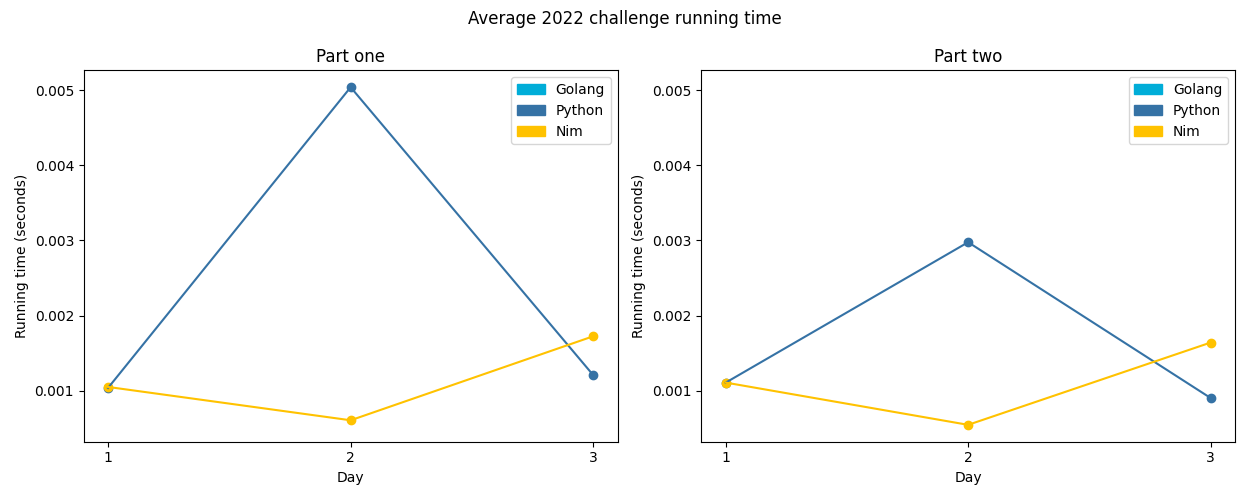
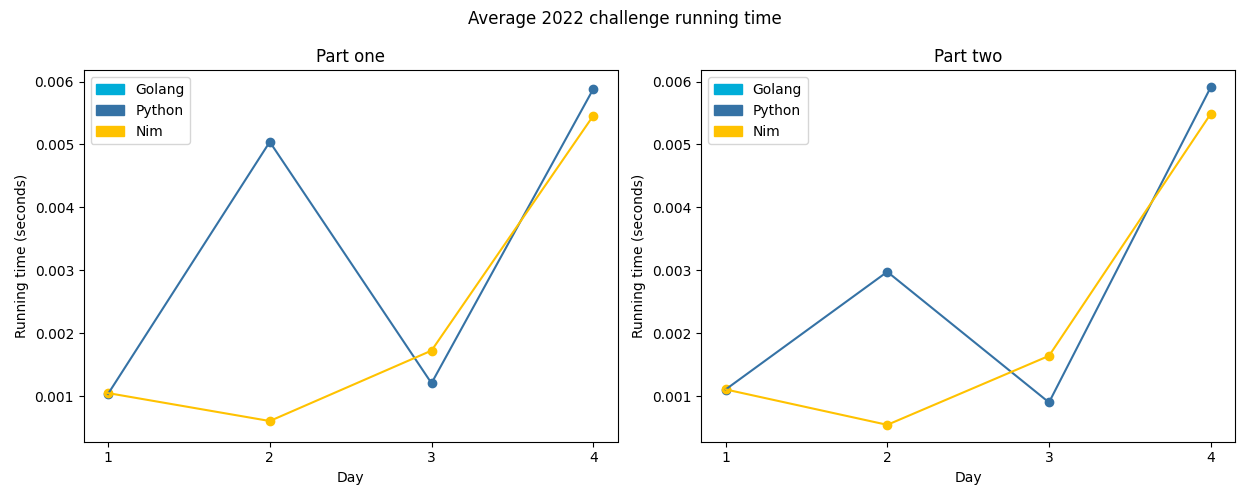
2022-04 py,nim

diff --git a/challenges/2022/04-campCleanup/py/__init__.py b/challenges/2022/04-campCleanup/py/__init__.py
@@ -1,0 +1,48 @@
+from typing import *
+from aocpy import BaseChallenge
+import re
+
+
+ElfTaskRange = Tuple[int, int]
+ElfPair = Tuple[ElfTaskRange, ElfTaskRange]
+
+parse_re = re.compile(r"(\d+)-(\d+),(\d+)-(\d+)")
+
+
+def parse(instr: str) -> List[ElfPair]:
+    x = instr.strip().splitlines()
+    for i, ep in enumerate(x):
+        a, b, c, d = map(int, parse_re.match(ep).groups())
+        x[i] = ((a, b), (c, d))
+    return x
+
+
+def make_set(tr: ElfTaskRange) -> Set[int]:
+    return set(range(tr[0], tr[1] + 1))
+
+
+def count(inp: List[ElfPair], pred: Callable[[Set[int], Set[int], int], bool]) -> int:
+    # pred(first set, second set, length of intersection)
+
+    n = 0
+    for pair in inp:
+        a = make_set(pair[0])
+        b = make_set(pair[1])
+        intersection = a.intersection(b)
+
+        if pred(a, b, len(intersection)):
+            n += 1
+
+    return n
+
+
+class Challenge(BaseChallenge):
+    @staticmethod
+    def one(instr: str) -> int:
+        inp = parse(instr)
+        return count(inp, lambda a, b, i: i == len(a) or i == len(b))
+
+    @staticmethod
+    def two(instr: str) -> int:
+        inp = parse(instr)
+        return count(inp, lambda _, __, i: i != 0)

diff --git a/challenges/2022/README.md b/challenges/2022/README.md
@@ -13,6 +13,7 @@ Solutions to the [2022 Advent of Code](https://adventofcode.com/2022).
 | 01 - Calorie Counting               | ★ ★                | [Python](01-calorieCounting/py), [Nim](01-calorieCounting/nim), [Java](01-calorieCounting/java/src) | Summing numbers |
 | 02 - Rock Paper Scissors            | ★ ★                | [Python](02-rockPaperScissors/py), [Nim](02-rockPaperScissors/nim) | Programmatically playing Rock Paper Scissors |
 | 03 - Rucksack Reorganization        | ★ ★                | [Python](03-rucksackReorganization/py), [Nim](03-rucksackReorganization/nim) | Sets and intersections |
+| 04 - Camp Cleanup                   | ★ ★                | [Python](04-campCleanup/py), [Nim](04-campCleanup/nim) | More sets and more intersections! |
 
 <!-- PARSE END -->
 

diff --git a/challenges/2022/04-campCleanup/README.md b/challenges/2022/04-campCleanup/README.md
@@ -1,0 +1,1 @@
+# [Day 4: Camp Cleanup](https://adventofcode.com/2022/day/4)
